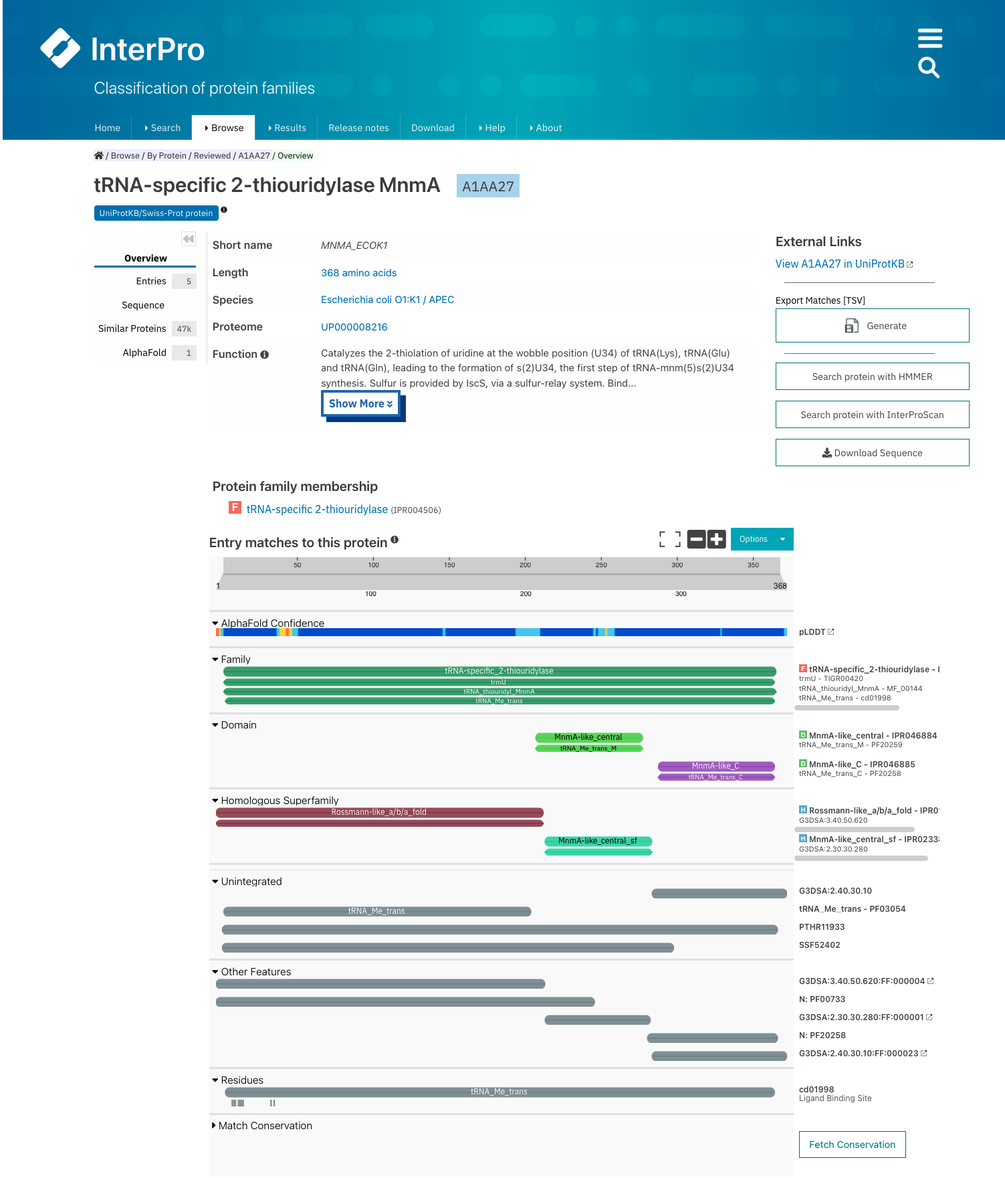
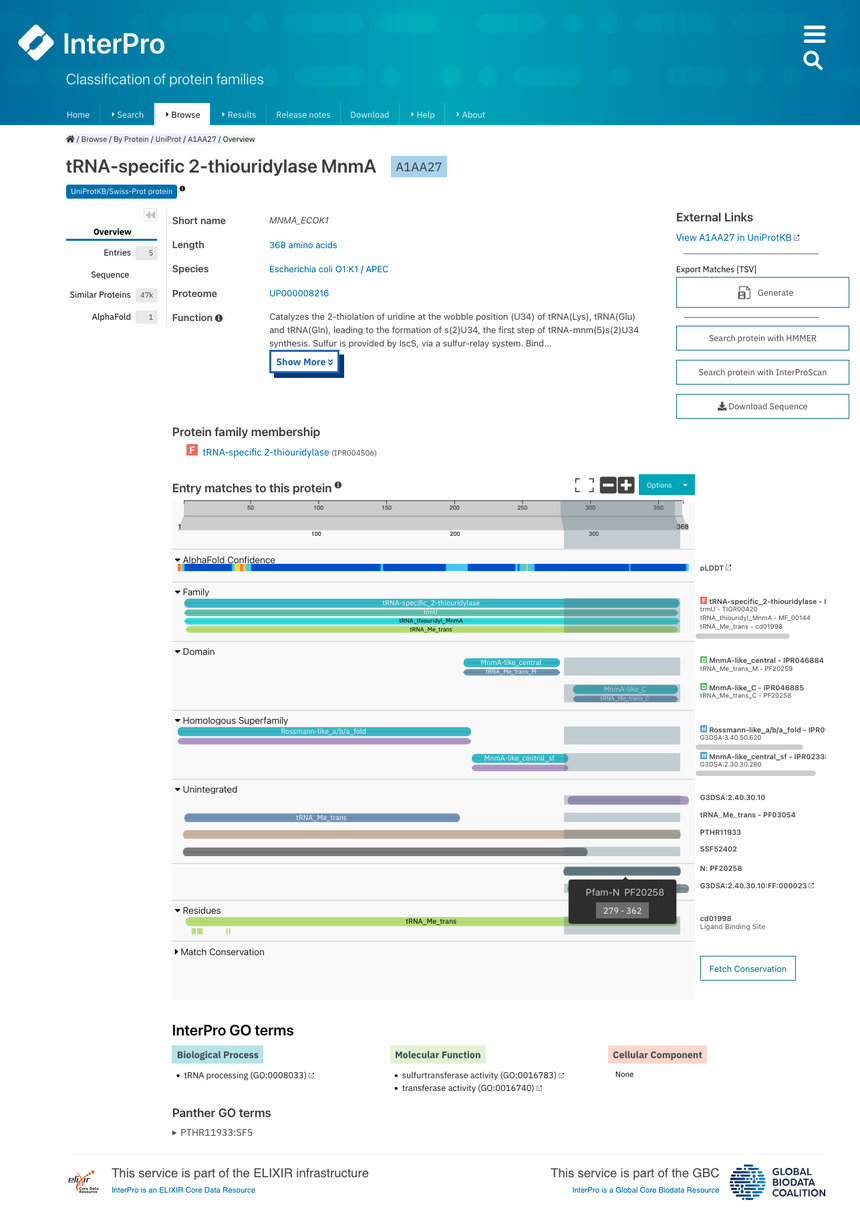
Update FAQs, add images and links, fix line length

diff --git a/docs/faq.rst b/docs/faq.rst
@@ -5,93 +5,133 @@ Frequently Asked Questions (FAQs)
 .. contents::
   :local:
 
+.. _A1AA27: https://www.ebi.ac.uk/interpro/protein/UniProt/A1AA27/
+
 What is Pfam?
 =============
 
-Pfam is a collection of multiple sequence alignments and profile hidden Markov models (HMMs). Each Pfam profile HMM represents a protein family or domain. By searching a protein sequence against the Pfam library of profile HMMs, you can determine which domains it carries i.e. its domain architecture. Pfam can also be used to analyse proteomes and questions of more complex domain architectures.
+Pfam is a collection of multiple sequence alignments and profile hidden Markov models (HMMs). Each Pfam profile HMM represents a protein family or domain. 
+By searching a protein sequence against the Pfam library of profile HMMs, you can determine which domains it carries i.e. its domain architecture. Pfam 
+can also be used to analyse proteomes and questions of more complex domain architectures.
 
-For each Pfam accession we have a family page, which can be accessed in several ways: from the 'View a Pfam Family' search box on the HOME page, by clicking on any graphical image of a domain, by searching for a particular family using the 'Keyword Search' box on the top right hand corner of most website pages, or by pasting the family identifier or accession into the 'JUMP TO' box that is present on most pages in the site.
+For each Pfam accession, we have an entry page. See :ref:`Searching a specific Pfam entry <search-boxes>` for more information on how to access them.
 
-What is on a family page?
+What is a Pfam entry page?
 =========================
 
-From the family page you can view the Pfam annotation for a family. We also provide access to many other sources of information, including annotation from the InterPro database, where available, cross-links to other databases and other tools for protein analysis. Since release 25.0 we have also started displaying relevant articles from `Wikipedia <https://en.wikipedia.org/wiki/Main_Page>`_ where available.
+From the Pfam entry page you can view all the associated information, from annotation to structure predictions of the protein members. 
+See :doc:`Pfam entry page organisation</pfam-entry>` to see a detailed description on how this data is presented.
 
+What is a clan/set?
+===================
 
-Via the tabs on the left-hand side of the page, you can view:
+Some of the Pfam entries are grouped into clans. Pfam defines a clan as a collection of entries that have arisen from a single evolutionary origin. 
+Evidence of their evolutionary relationship can be in the form of similarity in tertiary structures, or, when structures are not available, from common 
+sequence motifs.
 
-    * the domain architectures in which this family is found
-    * the alignments for the family in various formats, including alignments of matches to UniProKB and representative proteomes, as well as in 'heat-map' format. All alignments can be downloaded
-    * the phylogenetic and species distribution trees, either as a traditional, interactive tree or as a "sunburst" plot
-    * the profile HMM logo
-    * the structural information for each family where available
+When a sequence region has overlapping matches to more than one entry within the same clan, we only show one of those matches. If the sequence region is 
+also in the seed alignment for an entry, only the match to that entry is shown. Otherwise we show the entry that corresponds to the match with the lowest 
+E-value.
 
-What is a clan?
-===============
+The clan pages can be accessed by following a link from the Pfam entry page, or alternatively they can be accessed by by selecting **Browse + By Set** 
+in the `InterPro website menu <https://www.ebi.ac.uk/interpro/set/all/entry/pfam/#table>`_ and select **Pfam** in the database section.
 
-Some of the Pfam families are grouped into clans. Pfam defines a clan as a collection of families that have arisen from a single evolutionary origin. Evidence of their evolutionary relationship can be in the form of similarity in tertiary structures, or, when structures are not available, from common sequence motifs. The seed alignments for all families within a clan are aligned and the resulting alignment (called the clan alignment) can be accessed from a link on the clan page. Each clan page includes a clan alignment, a description of the clan and database links, where appropriate. The clan pages can be accessed by following a link from the family page, or alternatively they can be accessed by clicking on 'clans' under the 'browse' by menu on the top of any Pfam page.
+For each clan page, you can access all the related data. See :doc:`Clan/Set page organisation</clan-set>` for more information. 
 
 What criteria do you use for putting families into clans?
 =========================================================
 
-We use a variety of measures. Where possible we do use structures to guide us and that is always the gold standard. In the absence of a structure we use:
+We use a variety of measures. Where possible we do use experimental and predicted structures to guide us and that is always the gold standard. 
+We also intend to harmonise this organisation with `ECOD classification <http://prodata.swmed.edu/ecod/>`_.
+In the absence of a structure we use:
 
   * profile comparisons such as HHsearch
   * the fact that a sequence significantly matches two profile HMMs in the same region of the sequence
   * a method called SCOOP, that looks for common matches in search results that may indicate a relationship
 
-All of this information is used by one of our curators to make a decision about where families are related and we strive to find information in literature that support the relationship, e.g. common function.
+All of this information is used by one of our curators to make a decision about where families are related and we strive to find information in 
+literature that support the relationship, e.g. common function.
+
+What is Pfam-N?
+===============
+Pfam-N (N for network) provides additional Pfam matches identified by the Google Research team using deep learning approaches. You can read more about 
+it `in this initial blog post <https://xfam.wordpress.com/tag/pfam-n/>`_ and `this update <https://xfam.wordpress.com/2022/10/20/a-new-version-of-pfam-n-is-available/>`_. 
+The matches for Pfam-N are displayed below '**Other features**' in the protein sequence viewer.
+
+.. figure:: images/exampleprotviewer.png
+  :alt: Example of InterPro protein page showing the protein viewer 
+  :width: 700
+  :align: left
+
+  Example of InterPro protein page for the Uniprot accesion A1AA27_. The protein viewer shows the integrated and unintegrated Pfam entries matching this 
+  protein sequence, as well as other features such as the Pfam-N matches. The colour code of the protein viewer is customised as 
+  **Colour By + Member Database** for all Pfam entries to be highlighted in blue. The tooltip is active and the mouse 
+  was hovering over one of the Pfam-N matches when this screenshot was taken. You can find more information on the protein viewer 
+  :ref:`here <protein-viewer>`.
+
+What is the relation between Pfam and InterPro?
+===============================================
+
+The Pfam database is a large collection of protein domain families. Each family is represented by multiple sequence alignments and a profile hidden 
+Markov model (HMM) and has information associated. All the information in the Pfam database can be accesed through the InterPro website, where it is 
+hosted. See :ref:`Getting started <pfam>` for more information.
+
+InterPro is a resource that provides functional analysis of protein sequences by classifying them into families and predicting the presence of 
+domains and important sites through the use of predictive models, known as signatures, provided by several collaborating databases (referred to 
+as member databases). One of it 13 member databases is Pfam. For further information you can explore the 
+InterPro **About** `pages <https://www.ebi.ac.uk/interpro/about/interpro/>`_.
+
+Currently, part of the `InterPro team <https://www.ebi.ac.uk/interpro/about/team/>`_ is also part of the :ref:`Pfam team <team-members>`. In this way, 
+while both protein resources are independently mantained, there is a really close relation between them, with feedback constantly going in both directions to 
+to improve protein classification.
+
+This Pfam entry is not integrated into InterPro. is it useful anyway?
+=====================================================================
+
+Yes! The criteria for creating a new Pfam entry and a new InterPro entry is different. A Pfam entry might not yet be curated in IntePro or might not 
+reach InterPro's standards for integration. However, they can still provide very important information about a protein of interest.
 
 Is possible to build Wise2 with HMMER3 support?
 ===============================================
 
-The way we get round the problem with the difference in HMMER versions, is to convert the profile HMMs that are in HMMER3 format to HMMER2 format using the HMMER3 program "hmconvert" (with -2) flag. To make the searches feasible, we screen the DNA for potential domains using ncbi-blast and the Pfam-A.fasta as a target library. GeneWise is then used to calculate a subset of profile HMMs against the DNA. There is some down-weighting of the bits-per-position between H2 and H3 HMMs that the conversion does not account for, leading inevitably to some false negatives for some families/sequences. However, until GeneWise is patched to deal with HMMER3 models, this is the best course of action.
-
-What happened to the Pfam_ls and Pfam_fs files?
-===============================================
-
-In the past, each Pfam family was represented by two profile-hidden Markov models (HMMs). One of these could match partially to a family and was called local or fs mode, the other required a sequence to match to the whole length of the profile HMM, and was called glocal or ls mode. With HMMER2, we found that the combination of the two models gave us the most sensitive searches. However, HMMER3 models are only available for searching in local (fs) mode. Because of the improvements in HMMER3, this single model is as sensitive as the two combined HMMER2 models. This means that we no longer provide two profile HMM libraries called 'HMM_ls' and 'HMM_fs'. Instead, a single library is available called 'Pfam-A.hmm'.
+The way we get round the problem with the difference in HMMER versions, is to convert the profile HMMs that are in HMMER3 format to HMMER2 format using 
+the HMMER3 program "hmconvert" (with -2) flag. To make the searches feasible, we screen the DNA for potential domains using ncbi-blast and the 
+Pfam-A.fasta as a target library. GeneWise is then used to calculate a subset of profile HMMs against the DNA. There is some down-weighting of the 
+bits-per-position between H2 and H3 HMMs that the conversion does not account for, leading inevitably to some false negatives for some families/sequences. 
+However, until GeneWise is patched to deal with HMMER3 models, this is the best course of action.
 
 How can I search Pfam locally?
 ==============================
 
-If you have a large number of sequences or you don't want to post your sequence across the web, you can search your sequence locally using the 'pfam_scan.pl' script.
-
-In terms of HMMs and formats, Pfam is based around the `HMMER <http://hmmer.org/>`_  package. This will need to be installed on your local machine. You will need also to download the Pfam profile HMM libraries from the FTP site, as well as a few modules from CPAN, most notably Moose.
-
-Full details on how to get 'pfam_scan.pl' up and running can be found on our `FTP site <ftp://ftp.ebi.ac.uk/pub/databases/Pfam/Tools/README>`_.
+If you have a large number of sequences or you don't want to post your sequence across the web, you can search your sequence locally using 
+`InterProScan <https://interproscan-docs.readthedocs.io/en/latest/Introduction.html#to-install-and-run-interproscan>`_.
 
 Why doesn't Pfam include my sequence?
 =====================================
 
-Pfam is built from a fixed release of UniProtKB. At each Pfam release we incorporate sequences from the latest release of UniProtKB. This means that, at any time, the sequences used by Pfam might be several months behind those in the most up-to-date versions of the sequence databases. If your sequence isn't in Pfam, you can still find out what domains it contains by pasting it into the sequence search box on the `search page <http://pfam.xfam.org/search>`_.
+Pfam is built from a fixed release of UniProtKB. At each InterPro release we incorporate sequences from the latest release of UniProtKB. This means that, 
+at any time, the sequences used by Pfam might be several weeks behind those in the most up-to-date versions of the sequence databases. If your sequence 
+isn't in Pfam, you can still find out what domains it contains by pasting it into the sequence search box (see :ref:`Use the InterPro online sequence search<search-by-sequence>`)
 
 Why is there apparent redundancy of UniProtKB IDs in the full-length FASTA sequence file?
 =========================================================================================
 
-A given Pfam family may match a single protein sequence multiple times, if the domain/family is a repeating unit, for example, or when the profile HMM matches only to short stretches of the sequence but matches several times. In such cases the FASTA file with the full length sequences will contain multiple copies of the same sequence.
-
-How many accurate alignments do you have?
-=========================================
-
-Release 33.1 has 18259 families. Over 75.1% of the proteins in SWISSPROT 2019_08 and TrEMBL 2019_08 have at least one match to a Pfam-A family.
+A given Pfam family may match a single protein sequence multiple times, if the domain/family is a repeating unit, for example, or when the profile HMM 
+matches only to short stretches of the sequence but matches several times. In such cases the FASTA file with the full length sequences will contain 
+multiple copies of the same sequence.
 
 How can I submit a new domain?
 ==============================
 
-If you know of a domain that is not present in Pfam, you can submit it to the `Pfam helpdesk <pfam-help@ebi.ac.uk>`_ and we will endeavour to build a Pfam entry for it. We ask that you supply us with a multiple sequence alignment of the domain (please send the alignment file as a text file (e.g. .txt) and not in the format of a specific application such as Microsoft Word (e.g. a .doc) file), and associated literature evidence if available.
+If you know of a domain that is not present in Pfam, you can submit it to the `Pfam helpdesk <https://www.ebi.ac.uk/support/interpro>`_ and we will 
+endeavour to build a Pfam entry for it. We ask that you supply us with a multiple sequence alignment of the domain (please send the alignment file as 
+a text file (e.g. *.txt*) and not in the format of a specific application such as Microsoft Word (e.g. a *.doc*) file) or a list of Uniprot accesions, 
+and associated literature evidence if available.
 
 Can I search my protein against Pfam?
 =====================================
 
-Of course! Please use this `search form <http://pfam.xfam.org/search?tab=searchProteinBlock#tabview=tab1>`_.
-
-Why do I get slightly different results when I search my sequence against Pfam versus when I look up a sequence on the Pfam website?
-====================================================================================================================================
-
-When a sequence region has overlapping matches to more than one family within the same clan, we only show one of those matches. If the sequence region is also in the seed alignment for a family, only the match to that family is shown. Otherwise we show the family that corresponds to the match with the lowest E-value.
-
-There are cases where a sequence region is in the seed alignment of a Pfam family (family A), but it does not have a significant match to that family’s profile HMM. Occasionally, the same sequence region has a significant match to another family (family B) in the same clan. In this situation, the Pfam website will not show the match to family B as it is present in the seed alignment of family A. The sequence search will however show the match to family B as the seed alignment information is unknown. This scenario, where the sequence search shows a match that the Pfam website does not, is very rare (affecting less than 0.01% of all matches in the Pfam database).
+Of course! Please look :ref:`here <search-by-sequence>` how you can do it.
 
 What is the difference between the '-' and '.' characters in your full alignments?
 ==================================================================================
@@ -101,40 +141,43 @@ The '-' and '.' characters both represent gap characters. However they do tell y
 .. figure:: images/alignment.png
       :align: center
 
-What do the SS lines in the alignment mean?
-===========================================
+How can I visualise the position of a Pfam entry in a structure?
+===============================================================
 
-These lines are structural information. The SS stands for secondary structure, and this is taken from `DSSP <http://swift.cmbi.ru.nl/gv/dssp/>`_. The following list gives the definitions for each code letter:
+In the **Structures** tab on any :ref:`Pfam entry <pfstruct>` or :ref:`Pfam clan/set page <clstruct>` you can find links to relevant Interpro structure 
+pages. In any InterPro structure page all of the entries of Pfam and other databases and resources for each chain of the structure are displayed in a 
+protein sequence viewer. On top you can see the tridimensional structure viewer. 
 
-    * C: random Coil
-    * H: alpha-helix
-    * G: 3(10) helix
-    * I: pi-helix
-    * E: hydrogen bonded beta-strand (extended strand)
-    * B: residue in isolated beta-bridge
-    * T: h-bonded turn (3-turn, 4-turn, or 5-turn)
-    * S: bend (five-residue bend centered at residue i)
+The position of Pfam each entry within the overall 3D structure can be visualised by:
+* hovering the mouse over the coloured bar representing the Pfam match in the protein sequence viewer. 
+* choosing the Pfam entry of interest in the drop-down list **Highlight Entry in the 3D structure**.
 
-Why don't you have domain YYYY in Pfam!
+The **AlphaFold** tab of a :ref:`Pfam entry <ap>` provides links to the predicted structures of every protein. In the **AlphaFold** tab of any InterPro
+protein page, the position of Pfam each entry within the overall 3D structure can be visualised by hovering the mouse over the coloured bar representing 
+the Pfam match in the protein sequence viewer. 
+
+.. figure:: images/apstructviewer.png
+  :alt: Example of the AlphaFold tab of an InterPro protein page showing the structure viewer 
+  :width: 700
+  :align: left
+
+  Example of the AlphaFold tab of the InterPro protein page for the Uniprot accesion A1AA27_. When the scrrenshot was taken, the mouse was hovering over 
+  the Pfam entry `PF20258 <https://www.ebi.ac.uk/interpro/entry/pfam/PF20258/>`_.
+
+
+Why don't you have domain YYYY in Pfam?
 =======================================
 
-We are very keen to be alerted to new domains. If you can provide us with a multiple sequence alignment then we will try hard to incorporate it into the database. If you know of a domain, but don't have a multiple sequence alignment, we still want to know, for simple families just one sequence is enough. Again contact the `Pfam helpdesk <pfam-help@ebi.ac.uk>`_.
+We are very keen to be alerted to new domains. If you can provide us with a multiple sequence alignment then we will try hard to incorporate it into the 
+database. If you know of a domain, but don't have a multiple sequence alignment, we still want to know, for simple families just one sequence is enough. 
+Again contact the `Pfam helpdesk <https://www.ebi.ac.uk/support/interpro>`_.
 
 Are there other databases which do this?
 ========================================
 
-To a certain extent yes, there are a number of "second generation" databases which are trying to organise protein space into evolutionarily conserved regions. Examples include:
-
-  `PROSITE <https://prosite.expasy.org>`_
-       This originally was based around regular expression patterns but now also includes profiles.
-  `PRINTS <http://www.bioinf.man.ac.uk/dbbrowser/PRINTS>`_
-       This is based around protein "finger-prints" of a series of small conserved motifs making up a domain.
-  `SMART <http://smart.embl-heidelberg.de>`_
-       This is a database concentrating on extracellular modules and signaling domains.
-  `InterPro <http://www.ebi.ac.uk/interpro>`_
-       Combines information from Pfam, Prints, SMART, Prosite and PRODOM.
-  `CDD <https://www.ncbi.nlm.nih.gov/Structure/cdd/cdd.shtml>`_
-       The Conserved Domain Database is derived from Pfam and SMART databases.
+To a certain extent yes, there are a number of "second generation" databases which are trying to organise protein space into evolutionarily conserved 
+regions. `InterPro <http://www.ebi.ac.uk/interpro>`_ combines information several in a single searchable resource. You can find more information in 
+`this page <https://www.ebi.ac.uk/interpro/about/consortium/>`
 
 So which database is better?
 ============================

diff --git a/docs/searching-pfam.rst b/docs/searching-pfam.rst
@@ -4,7 +4,7 @@ Searching Pfam
 
 There are multiple ways to look for information in Pfam by using the IntePro website.
 
-.. _search:
+.. _search-boxes:
 Searching a specific Pfam entry 
 ===============================
 
@@ -70,9 +70,9 @@ Searching a protein sequence against Pfam
 Searching a protein sequence against the Pfam library of HMMs will enable you to find out the domain architecture of the protein, 
 and thus what its potential function might be. If your protein is present UniProt version used to make the current 
 release of InterPro, we have already calculated its domain architecture. You can access this by entering the Uniprot sequence 
-identifier in any of the Search boxes mentioned above (see `Searching a specific Pfam entry`_).
+identifier in any of the Search boxes mentioned above (see :ref:`Searching a specific Pfam entry <search-boxes>`).
 
-
+.. _search-by-sequence:
 
 Use the InterPro online sequence search
 ---------------------------------------
@@ -123,6 +123,8 @@ The results of the submitted job are accessible by selecting **Results + Your In
 
   Select **Results + Your InterProScan Searches** in the InterPro website menu. 
 
+.. _protein-viewer:
+
 All Pfam entries - and the InterPro entries where they are integrated - are displayed in the protein sequence viewer. The Pfam and 
 InterPro entries are grouped by type (family, domain, repeat, site). The coloured bars indicate the location of entry matches on 
 the protein sequence. Each matched InterPro entry is displayed on a separate line, with the Pfam entries integrated in it displayed 
@@ -144,9 +146,6 @@ over it. Snapshots of the results can be taken in PNG or PDF format.
   protein viewer. The colour code of the protein viewer is customised as **Colour By + Member Database** for all Pfam entries to be 
   highlighted in blue.
 
-
-.. The matches for Pfam-N are displayed below '**Other features**'. Pfam-N (N for network) provides additional Pfam matches identified by 
-   the Google Research team using deep learning approaches. You can read more about it `in this blog post <https://xfam.wordpress.com/tag/pfam-n/>`_.
 
 Local protein search
 --------------------

diff --git a/docs/summary.rst b/docs/summary.rst
@@ -2,11 +2,16 @@
 Summary
 *******
 
-Proteins are generally comprised of one or more functional regions, commonly termed domains. The presence of different domains in varying combinations in different proteins gives rise to the diverse repertoire of proteins found in nature. Identifying the domains present in a protein can provide insights into the function of that protein.
+Proteins are generally comprised of one or more functional regions, commonly termed domains. The presence of different domains in varying combinations 
+in different proteins gives rise to the diverse repertoire of proteins found in nature. Identifying the domains present in a protein can provide 
+insights into the function of that protein.
 
-The Pfam database is a large collection of protein domain families. Each family is represented by multiple sequence alignments and a profile hidden Markov model (HMM).
+The Pfam database is a large collection of protein domain families. Each family is represented by multiple sequence alignments and a profile hidden 
+Markov model (HMM).
 
-Each Pfam family, sometimes referred to as a Pfam-A entry, consists of a curated seed alignment containing a small set of representative members of the family, profile HMMs built from the seed alignment, and an automatically generated full alignment, which contains all detectable protein sequences belonging to the family, as defined by profile HMM searches of primary sequence databases.
+Each Pfam family, sometimes referred to as a Pfam-A entry, consists of a curated seed alignment containing a small set of representative members of the 
+family, profile HMMs built from the seed alignment, and an automatically generated full alignment, which contains all detectable protein sequences 
+belonging to the family, as defined by profile HMM searches of primary sequence databases.
 
 Pfam entries are classified in one of six types:
 

diff --git a/docs/pfam-entry.rst b/docs/pfam-entry.rst
@@ -1,6 +1,6 @@
-***********************
+****************************
 Pfam entry page organisation
-***********************
+****************************
 
 .. _PF02171: https://www.ebi.ac.uk/interpro/entry/pfam/PF02171/
 
@@ -115,7 +115,7 @@ first icon (**View matching proteins**), download the data in different formats 
 
   Example of a Pfam entry page (PF02171_) with the tab **Proteomes** selected.
 
-
+.. _pfstruct:
 **Structures**
 ----------------
 This tab displays a list of all the PDB structures linked to the proteins matching the Pfam entry. For each structure, you can 
@@ -158,7 +158,7 @@ selecting a particular residue in the logo, the probabilities of each amino acid
 
   Example of a Pfam entry page (PF02171_) with the tab **Signature** and the second residue position in the protein sequence selected.
 
-
+.. _ap:
 **AlphaFold**
 ---------------
 Many of the proteins found in the Pfam entry may have a predicted structure generated by `AlphaFoldDB <https://alphafold.ebi.ac.uk/>`_. 

diff --git a/docs/getting-started.rst b/docs/getting-started.rst
@@ -1,7 +1,7 @@
 ***************
 Getting Started
 ***************
-
+.. _pfam:
 **Pfam** is hosted by `InterPro <https://www.ebi.ac.uk/interpro/>`_. All the information contained within Pfam is accesible in the website of this protein sequences resource by browsing by member database and choosing 
 `Pfam <https://www.ebi.ac.uk/interpro/entry/pfam/#table>`_. For more information about InterPro you can have a look at `its documentation <https://interpro-documentation.readthedocs.io/en/latest/interpro.html>`_. 
 

diff --git a/docs/clan-set.rst b/docs/clan-set.rst
@@ -64,7 +64,7 @@ on the **Export** button, and customise the page settings, by clicking on the wh
     Example of a Pfam clan/set page (CL0219_) with the **Proteins** tab selected. The 
     table is customised to show only **Reviewed** proteins.
 
-
+.. _clstruct:
 **Structures**
 ----------------
 This tab displays a list of all the PDB structures linked to the proteins matching any Pfam entry belonging to the clan/set. For 
